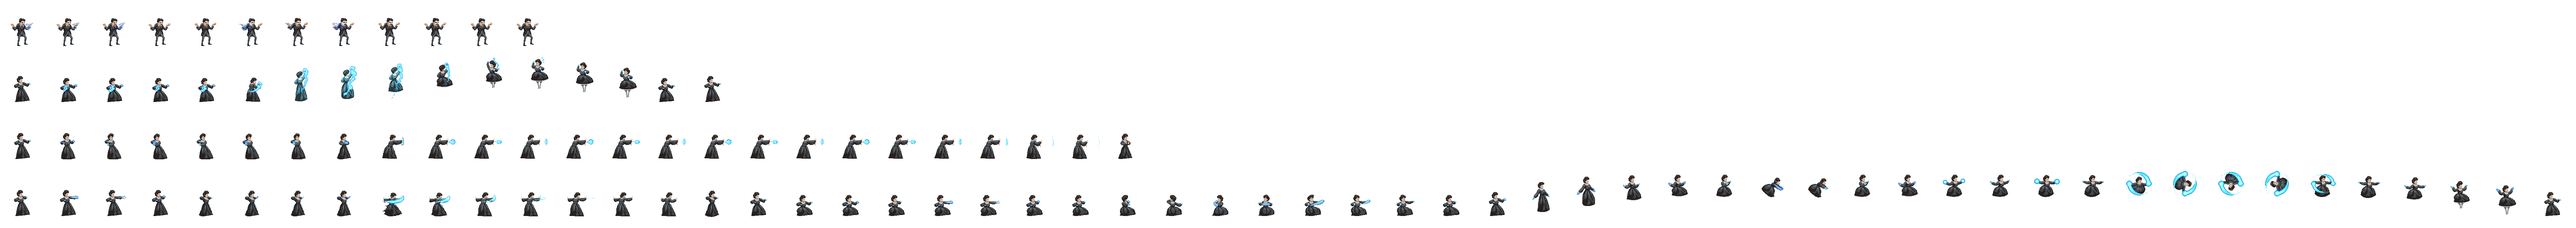
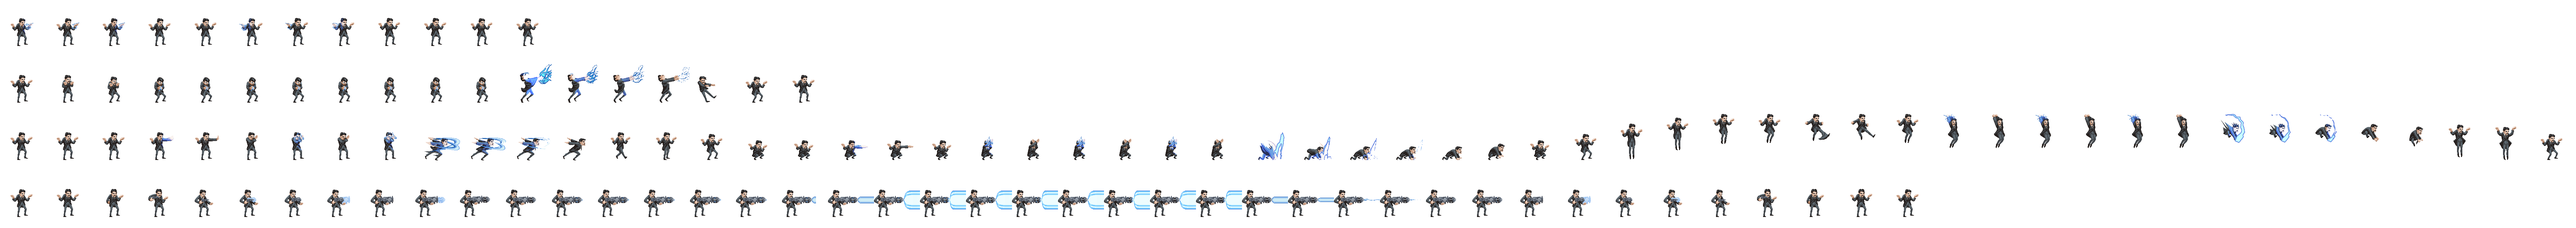
Tesla

Changed region(s): [[0.0, 0.7368, 0.9979, 0.9518], [0.0, 0.4912, 0.9979, 0.7061], [0.0, 0.2763, 0.3119, 0.4605]]

diff --git a/2DGame/02-Bubble/02-Bubble/Player.cpp b/2DGame/02-Bubble/02-Bubble/Player.cpp
@@ -55,20 +55,22 @@ void Player::init(const glm::ivec2 &tileMapPos, ShaderProgram &shaderProgram){
 
 	sprite->setAnimationSpeed(ATTACK_1, 24);
 	int attack1 = 16;
+	if (currentCharacter == 1) attack1 = 18;
 	if (currentCharacter == 2) attack1 = 25;
 	for (int i = 0; i < attack1; ++i) {
 		sprite->addKeyframe(ATTACK_1, glm::vec2(float(i) / 56.0f, 1.0f / 4.0f));
 	}
 
 	sprite->setAnimationSpeed(ATTACK_2, 24);
-	int attack2 = 25;
-	if (currentCharacter == 2) attack2 = 56;
+	int attack2 = 56;
+	if (currentCharacter == 0) attack2 = 25;
 	for (int i = 0; i < attack2; ++i) {
 		sprite->addKeyframe(ATTACK_2, glm::vec2(float(i) / 56.0f, 2.0f / 4.0f));
 	}
 
 	sprite->setAnimationSpeed(ATTACK_3, 24);
 	int attack3 = 56;
+	if (currentCharacter == 1) attack3 = 42;
 	if (currentCharacter == 2) attack3 = 19;
 	for (int i = 0; i < attack3; ++i) {
 		sprite->addKeyframe(ATTACK_3, glm::vec2(float(i) / 56.0f, 3.0f / 4.0f));
@@ -110,6 +112,7 @@ void Player::update(float totalTime, int deltaTime){
 	else if ((Game::instance().getKey(101) || Game::instance().getKey(69)) && coolDownA1 == 0) { // e E, Attack 1
 		sprite->changeAnimation(ATTACK_1);
 		int attack1 = 16;
+		if (currentCharacter == 1) attack1 = 18;
 		if (currentCharacter == 2) attack1 = 25;
 		sprite->resetToAnimation(totalTime, 1000.0f*(float(attack1) / 24.0f), WALK);
 		doDamage(DAMAGE_ATTACK_1);
@@ -118,8 +121,8 @@ void Player::update(float totalTime, int deltaTime){
 	}
 	else if ((Game::instance().getKey(102) || Game::instance().getKey(70)) && coolDownA2 == 0) { // f F, Attack 2
 		sprite->changeAnimation(ATTACK_2);
-		int attack2 = 25;
-		if (currentCharacter == 2) attack2 = 56;
+		int attack2 = 56;
+		if (currentCharacter == 0) attack2 = 25;
 		sprite->resetToAnimation(totalTime, 1000.0f*(float(attack2) / 24.0f), WALK);
 		doDamage(DAMAGE_ATTACK_2);
 		coolDownA2 = COOLDOWN_ATTACK_2;
@@ -128,7 +131,8 @@ void Player::update(float totalTime, int deltaTime){
 	else if (Game::instance().getKey(32) && coolDownA3 == 0) { // SPACE, Attack 3
 		sprite->changeAnimation(ATTACK_3);
 		int attack3 = 56;
-		if (currentCharacter == 2) {
+		if (currentCharacter == 1) attack3 = 42;
+		else if (currentCharacter == 2) {
 			attack3 = 19;
 			int movementX = 150;
 			if (right) movementX = -movementX;

diff --git a/2DGame/02-Bubble/02-Bubble/Blocking.cpp b/2DGame/02-Bubble/02-Bubble/Blocking.cpp
@@ -53,6 +53,7 @@ glm::vec2 Blocking::getPosition() {
 void Blocking::restart() {
 	posPlayer = iniPosition;
 	sprite->setPosition(posPlayer);
+	status = 0;
 }
 
 void Blocking::setPlayerPos(glm::vec2 &playerPosAux) {
